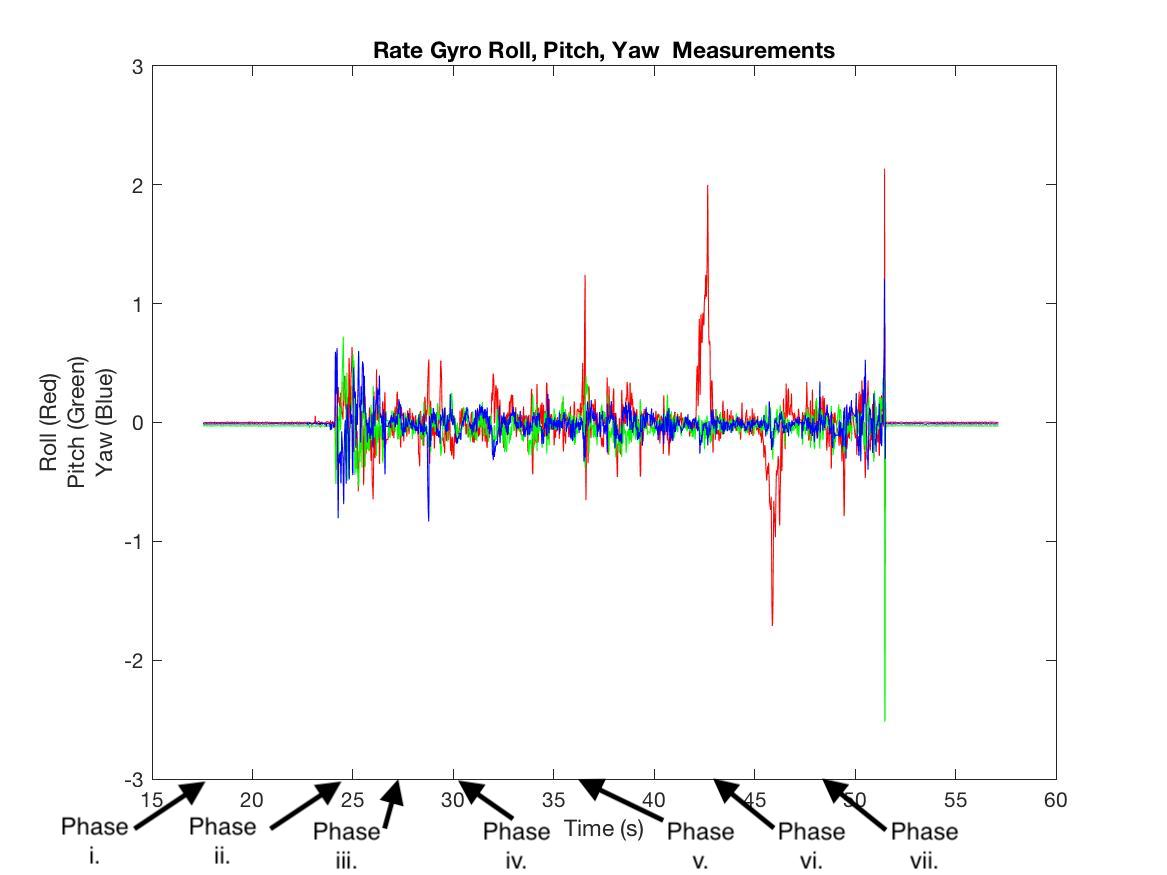
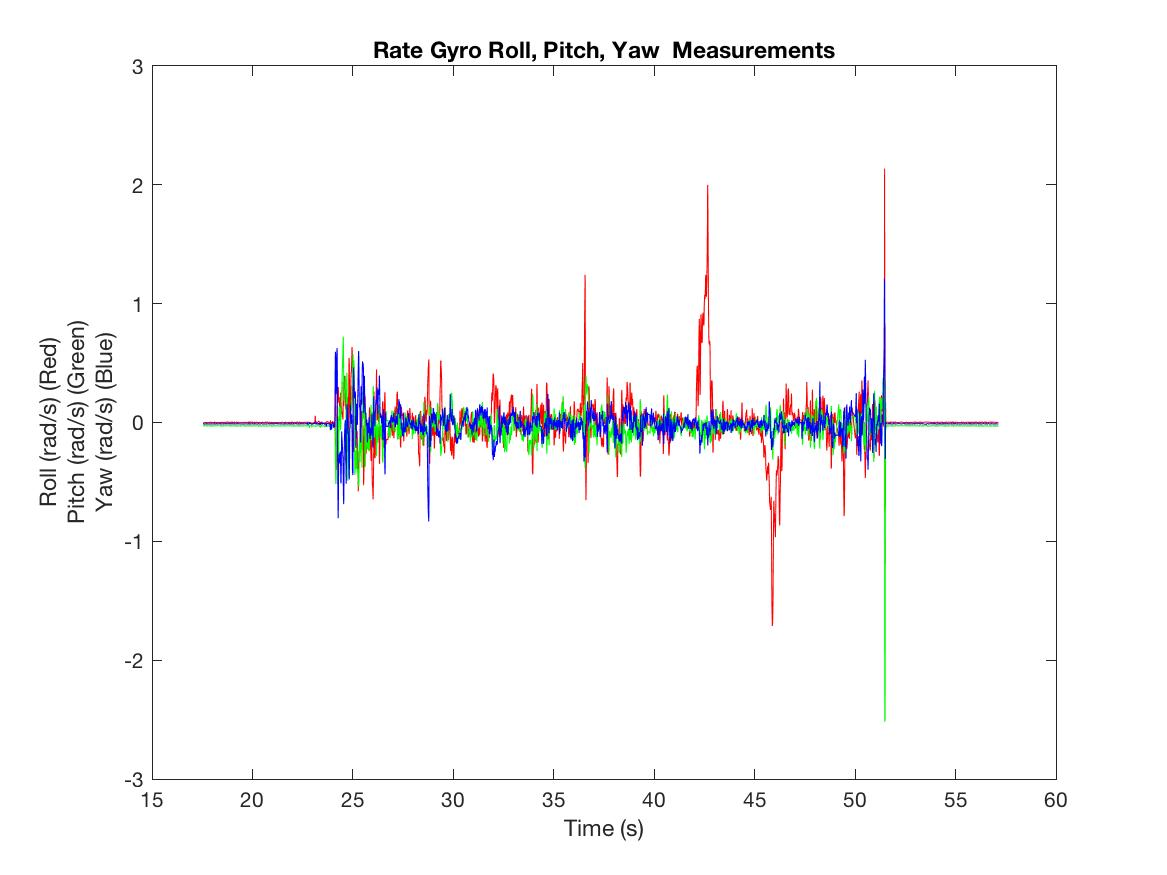
fixed a plot for lab 5

diff --git a/lab5/examplePlotZAccel.m b/lab5/examplePlotZAccel.m
@@ -10,19 +10,19 @@
 close all;
 
 %% Deliverable 2:
-%% Generate pitch and roll estimate graph;
-figure;
-name = './smooth_log/log___2017_11_28___19_38_40_latest_good file.csv'; %% NAME OF LOGFILE (CHANGE IF DIFFERENT)
-log = csv2struct(name, 29);
-hold off;
-plot(log.time, log.debugval10, 'color', 'r'); %estPos1
-hold on;
-plot(log.time, log.debugval11, 'color', 'b');  %estPos2
-
-xlabel('Time (s)');
-ylabel({'Pos Estimate 1(m) (red)', 'Pos Estimate 2(m) (blue)'});
-str = char([name(1:end-4) '_pos_1_2_est.jpg']);
-saveas(gcf, str);
+% %% Generate pitch and roll estimate graph;
+% figure;
+% name = 'del2.csv'; %% NAME OF LOGFILE (CHANGE IF DIFFERENT)
+% log = csv2struct(name, 29);
+% hold off;
+% plot(log.time, log.debugval0, 'color', 'r'); %estRoll
+% hold on;
+% plot(log.time, log.debugval1, 'color', 'b');  %estPitch
+% 
+% xlabel('Time (s)');
+% ylabel({'Roll Estimate (rad) (red)', 'Pitch Estimate (rad) (blue)'});
+% str = char([name(1:end-4) '_roll_pitch_est.jpg']);
+% saveas(gcf, str);
 
 % %% Generate vertical velocity graph:
 % figure;
@@ -47,24 +47,24 @@ saveas(gcf, str);
 % 
 % 
 % %% Deliverable 3:
-% %% Generate rate gyro measurements graph:
-% figure;
-% name = 'del3.csv'; %% NAME OF LOGFILE (CHANGE IF DIFFERENT)
-% log = csv2struct(name, 29);
-% 
-% hold off;
-% plot(log.time, log.rateGyro.x, 'color', 'r'); %rateGyro roll
-% hold on;
-% plot(log.time, log.rateGyro.y, 'color', 'g'); %rateGyro pitch 
-% hold on;
-% plot(log.time, log.rateGyro.z, 'color', 'b'); %rateGyro yaw 
-% 
-% title('Rate Gyro Roll, Pitch, Yaw  Measurements');
-% xlabel('Time (s)');
-% ylabel({'Roll (Red)', 'Pitch (Green)', 'Yaw (Blue)'});
-% 
-% str = char([name(1:end-4) '_rate_gyro_xyz_meas.jpg']);
-% saveas(gcf, str);
+%% Generate rate gyro measurements graph:
+figure;
+name = 'del3.csv'; %% NAME OF LOGFILE (CHANGE IF DIFFERENT)
+log = csv2struct(name, 29);
+
+hold off;
+plot(log.time, log.rateGyro.x, 'color', 'r'); %rateGyro roll
+hold on;
+plot(log.time, log.rateGyro.y, 'color', 'g'); %rateGyro pitch 
+hold on;
+plot(log.time, log.rateGyro.z, 'color', 'b'); %rateGyro yaw 
+
+title('Rate Gyro Roll, Pitch, Yaw  Measurements');
+xlabel('Time (s)');
+ylabel({'Roll (rad/s) (Red)', 'Pitch (rad/s) (Green)', 'Yaw (rad/s) (Blue)'});
+
+str = char([name(1:end-4) '_rate_gyro_xyz_meas.jpg']);
+saveas(gcf, str);
 % 
 % %% Generate output from flow sensor (x, y) graph:
 % figure;
@@ -102,7 +102,19 @@ saveas(gcf, str);
 % str = char([name(1:end-4) '_heightEst.jpg']);
 % saveas(gcf, str);
 
-
+% %% Generate debug data graphs
+% figure;
+% name = './smooth_log/log___2017_11_28___19_38_40_latest_good file.csv'; %% NAME OF LOGFILE (CHANGE IF DIFFERENT)
+% log = csv2struct(name, 29);
+% hold off;
+% plot(log.time, log.debugval10, 'color', 'r'); %estPos1
+% hold on;
+% plot(log.time, log.debugval11, 'color', 'b');  %estPos2
+% 
+% xlabel('Time (s)');
+% ylabel({'Pos Estimate 1(m) (red)', 'Pos Estimate 2(m) (blue)'});
+% str = char([name(1:end-4) '_pos_1_2_est.jpg']);
+% saveas(gcf, str);
 
 
 % example plotting data using csv2struct() function
